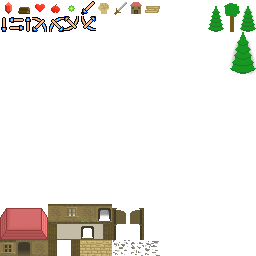
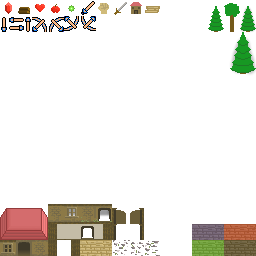
Add randomly coloured houses

Changed region(s): [[0.75, 0.875, 1.0, 1.0]]

diff --git a/procedural-time/src/entities/town/Town.java b/procedural-time/src/entities/town/Town.java
@@ -24,6 +24,8 @@ public class Town {
 	private int densityCount;
 	PathTree pathTree;
 	
+	String[] housePrefixes = {"d", "g", "b", "r", ""};
+	
 	public Town(int x, int y){
 		stage = GrowthStage.INIT;
 		rand = new Random(RandomManager.getSeed("Town"+x+":"+y));
@@ -57,7 +59,8 @@ public class Town {
 	
 	
 	public boolean createHouse(int x, int y, int width, int height){
-		House h = new House(new Rectangle(x, y, width, height));
+		House h = new House(new Rectangle(x, y, width, height), 
+				housePrefixes[rand.nextInt(housePrefixes.length)]);
 		
 		int currX, currY;
 		TreeDiff diff = checkHouse(h);
@@ -66,18 +69,29 @@ public class Town {
 		}
 		diff.apply(true);
 		
+		Door d;
+		HousePiece hp;
+		Floor f;
 		for (int i = 0; i < h.getRect().getWidth(); i++){
 			for (int j = 0; j < h.getRect().getHeight(); j++){
 				currX = h.getRect().getX()+i;
 				currY = h.getRect().getY()+j;
 				
-				if (j != 0) (new Floor(0, 0)).place(currX, currY);
+				if (j != 0) {
+					f = new Floor(0, 0);
+					f.setHouse(h);
+					f.place(currX, currY);
+				}
 				
 				if (i == 0 || j == 0 || j == h.getRect().getHeight()-1 || i == h.getRect().getWidth()-1) {
 					if (h.getDoors().contains(Game.getMap().getGridTile(currX, currY))){
-						(new Door(0, 0)).place(currX, currY);
+						d = new Door(0, 0);
+						d.setHouse(h);
+						d.place(currX, currY);
 					} else {
-						(new HousePiece(0, 0)).place(currX, currY);
+						hp = new HousePiece(0, 0);
+						hp.setHouse(h);
+						hp.place(currX, currY);
 					}
 				}
 			}

diff --git a/procedural-time/src/entities/concrete/Floor.java b/procedural-time/src/entities/concrete/Floor.java
@@ -4,9 +4,12 @@ import core.display.SpriteInstance;
 import core.display.SpriteManager;
 import entities.abstr.AbstractPlacedItem;
 import entities.interfaces.Holdable;
+import entities.town.House;
 import gui.GUtil.SpriteSheetType;
 
 public class Floor extends AbstractPlacedItem implements Holdable{
+	
+	private House house;
 	
 	public Floor(float x, float y) {
 		super(x, y);
@@ -20,7 +23,11 @@ public class Floor extends AbstractPlacedItem implements Holdable{
 	@Override
 	public void recalcSprite(){
 		if (placed){
-			setSprite(SpriteManager.get().getSprite(SpriteSheetType.ITEMS, "floor_"+(rand.nextInt(2)+1)));
+			if (house != null){	
+				setSprite(SpriteManager.get().getSprite(SpriteSheetType.ITEMS, house.getSpritePrefix()+"floor_"+(rand.nextInt(2)+1)));
+			} else {
+				setSprite(SpriteManager.get().getSprite(SpriteSheetType.ITEMS, "floor_"+(rand.nextInt(2)+1)));
+			}
 		} else {
 			setSprite(SpriteManager.get().getSprite(SpriteSheetType.ITEMS, "loose_floor"));
 		}
@@ -46,6 +53,10 @@ public class Floor extends AbstractPlacedItem implements Holdable{
 	public SpriteInstance[] getUseArray() {
 		// TODO Auto-generated method stub
 		return null;
+	}
+	
+	public void setHouse(House h){
+		this.house = h;
 	}
 
 }

diff --git a/procedural-time/src/entities/concrete/HousePiece.java b/procedural-time/src/entities/concrete/HousePiece.java
@@ -10,12 +10,14 @@ import core.display.SpriteManager;
 import entities.abstr.AbstractPlacedItem;
 import entities.interfaces.Holdable;
 import entities.interfaces.Placeable;
+import entities.town.House;
 import gui.GUtil.SpriteSheetType;
 
 public class HousePiece extends AbstractPlacedItem implements Placeable, Holdable {
 
 	protected HashMap<String, Sprite> sprites;
 	private String[][] bitmaskKeys;
+	private House house;
 	
 	public HousePiece(float x, float y){
 		super(x, y);
@@ -124,7 +126,9 @@ public class HousePiece extends AbstractPlacedItem implements Placeable, Holdabl
 		return null;
 	}
 
-
+	public void setHouse(House h){
+		this.house = h;
+	}
 
 
 }

diff --git a/procedural-time/src/entities/town/House.java b/procedural-time/src/entities/town/House.java
@@ -11,10 +11,12 @@ import core.Tile;
 public class House {
 	LinkedList<Tile> doors;
 	Rectangle rect;
+	String spritePrefix;
 
-	public House(Rectangle rect){
+	public House(Rectangle rect, String spr){
 		doors = new LinkedList<>();
 		this.rect = rect;
+		spritePrefix = spr;
 	}
 	
 	public void addDoor(Tile t){
@@ -27,6 +29,10 @@ public class House {
 	
 	public Rectangle getRect(){
 		return rect;
+	}
+	
+	public String getSpritePrefix(){
+		return spritePrefix;
 	}
 	
 	@Override
